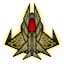
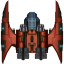
Added new ship.

diff --git a/Hells Genesis/Loudouts/PrefabPlayerLoadouts.cs b/Hells Genesis/Loudouts/PrefabPlayerLoadouts.cs
@@ -169,6 +169,25 @@ namespace HG.Loudouts
 
                 Collection.Add(loadout);
             }
+
+            //Starfighter
+            {
+                var loadout = new ShipLoadout(PlayerClass.Starfighter)
+                {
+                    Description = "→ Celestial Aviator ←\n"
+                        + "A sleek and versatile spacecraft, built for supremacy among the stars.\n"
+                        + "It's the first choice for finesse, agility, and unmatched combat prowess\n"
+                        + "without all the fuss of a powerful loadout.",
+                    Speed = 5.0,
+                    Boost = 3.5,
+                    Hull = 100,
+                    Sheilds = 15000,
+                    PrimaryWeapon = new ShipLoadoutWeapon(typeof(WeaponVulcanCannon), 5000)
+                };
+                loadout.SecondaryWeapons.Add(new ShipLoadoutWeapon(typeof(WeaponDualVulcanCannon), 2500));
+
+                Collection.Add(loadout);
+            }
         }
     }
 }

diff --git a/Hells Genesis/Menus/PlayerShipMenu.cs b/Hells Genesis/Menus/PlayerShipMenu.cs
@@ -11,7 +11,7 @@ namespace HG.Menus
     internal class PlayerShipMenu : MenuBase
     {
         private readonly ActorMenuItem _shipBlurb;
-
+                   
         public PlayerShipMenu(Core core)
             : base(core)
         {

diff --git a/Hells Genesis/Engine/Constants.cs b/Hells Genesis/Engine/Constants.cs
@@ -30,7 +30,8 @@ namespace HG.Engine
             Destroyer = 3,
             Dreadnaught = 4,
             Reaver = 5,
-            Serpent = 6
+            Serpent = 6,
+            Starfighter = 7
         }
     }
 }
